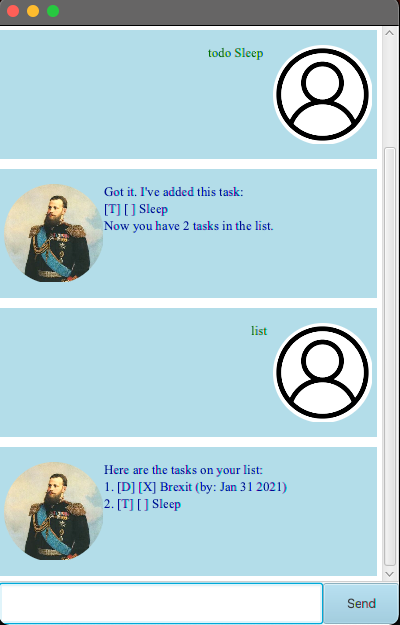
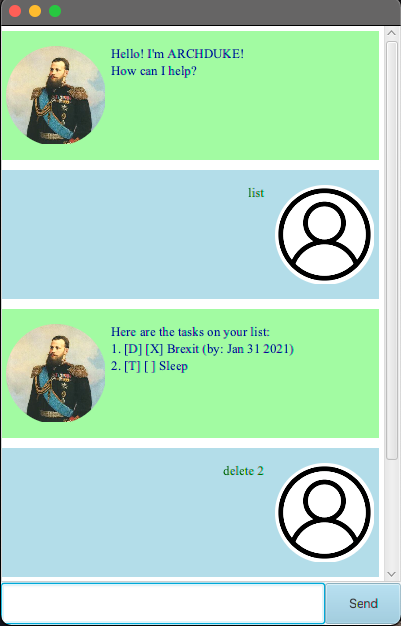
Update Ui.png

diff --git a/src/main/java/MainWindow.java b/src/main/java/MainWindow.java
@@ -67,7 +67,7 @@ public class MainWindow extends AnchorPane {
         );
         userInput.clear();
 
-        // printe bye message and close app
+        // prints bye message and close app
         if (response.equals("Bye. Hope to see you again soon!")) {
             isExit = true;
             exit();
@@ -75,6 +75,9 @@ public class MainWindow extends AnchorPane {
 
     }
 
+    /**
+     * Exits application.
+     */
     private void exit() {
         Timer timer = new Timer();
         timer.schedule(new TimerTask() {

diff --git a/src/main/java/DialogBox.java b/src/main/java/DialogBox.java
@@ -58,6 +58,7 @@ public class DialogBox extends HBox {
     public static DialogBox getDukeDialog(String text, Image img) {
         DialogBox db = new DialogBox(text, img);
         db.flip();
+        db.setStyle("-fx-background-color: #98FB98; -fx-border-width: 5; -fx-border-color: white;");
         return db;
     }
 
